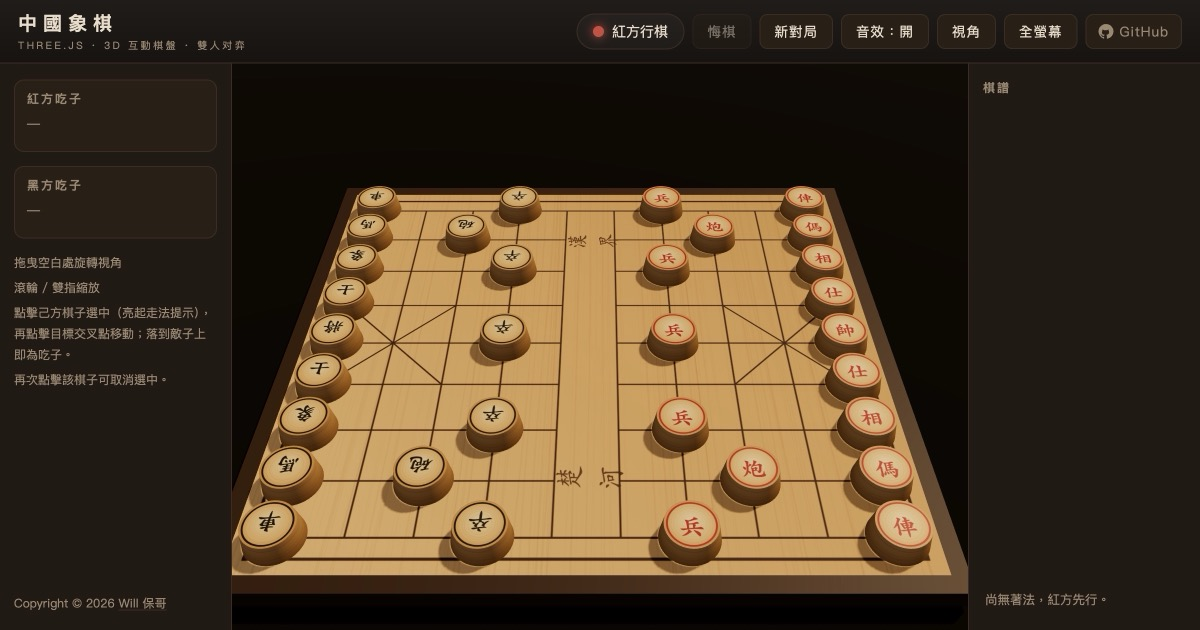
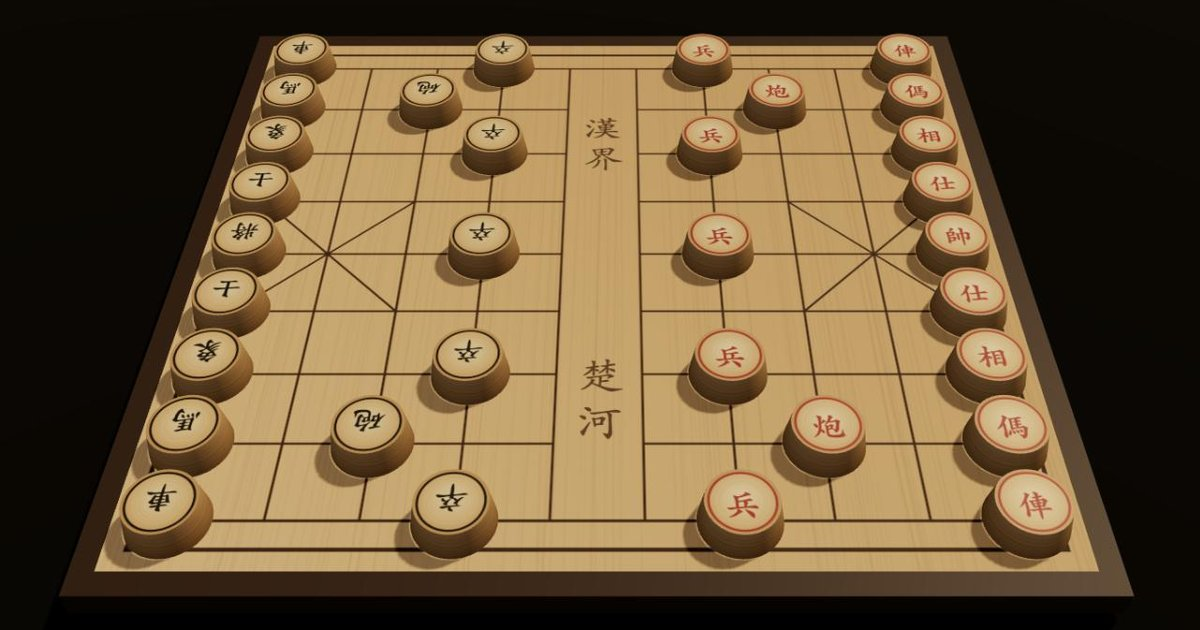
chore: 更新 og:image 為新版遊戲畫面截圖（Facebook 最佳化）
- 以瀏覽器實際擷取的 3D 開局棋盤畫面重製 og-image.jpg：
  隱藏介面元素、調整鏡頭距離讓整個棋盤置中入鏡、
  可清楚看到直書的楚河漢界與紅黑雙方棋子
- 依 Facebook 建議規格輸出：1200×630（1.91:1）、
  漸進式 JPEG、品質 85、檔案約 94KB（遠低於 8MB 上限）
- og:image／twitter:image／JSON-LD image 的 URL 加上
  ?v=20260826 版本參數，強制 Facebook 等平台重新抓取新圖

diff --git a/index.html b/index.html
@@ -18,7 +18,7 @@
 <meta property="og:description" content="用 Three.js 打造的 3D 互動中國象棋，支援人機對弈（三級 AI 難度）與雙人對戰。完整規則引擎與傳統棋譜記法，免費線上遊玩。">
 <meta property="og:url" content="https://chinese-chess.gh.miniasp.com/">
 <meta property="og:locale" content="zh_TW">
-<meta property="og:image" content="https://chinese-chess.gh.miniasp.com/og-image.jpg">
+<meta property="og:image" content="https://chinese-chess.gh.miniasp.com/og-image.jpg?v=20260826">
 <meta property="og:image:type" content="image/jpeg">
 <meta property="og:image:width" content="1200">
 <meta property="og:image:height" content="630">
@@ -28,7 +28,7 @@
 <meta name="twitter:card" content="summary_large_image">
 <meta name="twitter:title" content="中國象棋 · Three.js 3D">
 <meta name="twitter:description" content="用 Three.js 打造的 3D 互動中國象棋，支援人機對弈（三級 AI 難度）與雙人對戰。完整規則引擎與傳統棋譜記法，免費線上遊玩。">
-<meta name="twitter:image" content="https://chinese-chess.gh.miniasp.com/og-image.jpg">
+<meta name="twitter:image" content="https://chinese-chess.gh.miniasp.com/og-image.jpg?v=20260826">
 
 <!-- JSON-LD -->
 <script type="application/ld+json">
@@ -39,7 +39,7 @@
   "alternateName": "Chinese Chess (Xiangqi) 3D",
   "description": "用 Three.js 打造的 3D 互動中國象棋，支援人機對弈（AI 分簡單、中等、困難三級）與雙人對戰。完整規則引擎：將軍、將死、困斃、蹩馬腿、塞象眼、炮翻山、白臉將，並以傳統棋譜記法記錄著法。",
   "url": "https://chinese-chess.gh.miniasp.com/",
-  "image": "https://chinese-chess.gh.miniasp.com/og-image.jpg",
+  "image": "https://chinese-chess.gh.miniasp.com/og-image.jpg?v=20260826",
   "inLanguage": "zh-Hant",
   "genre": ["棋類遊戲", "策略遊戲"],
   "gamePlatform": "Web Browser",
